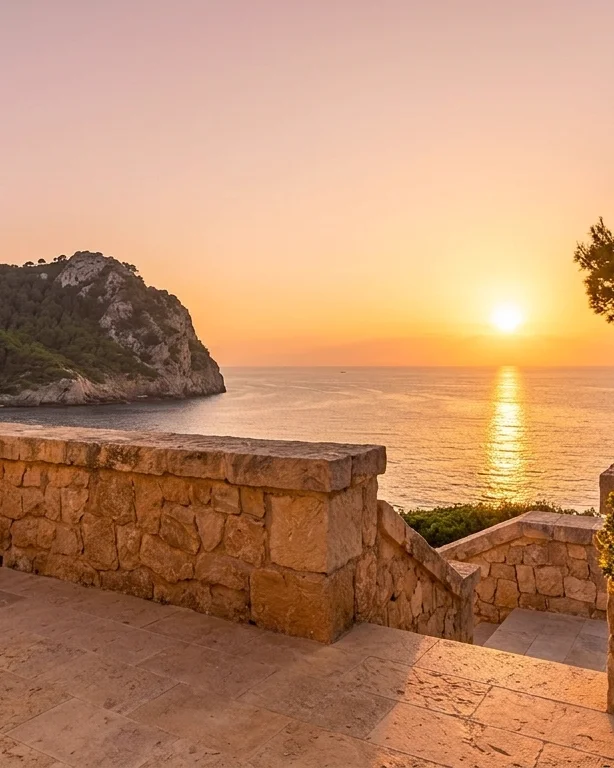
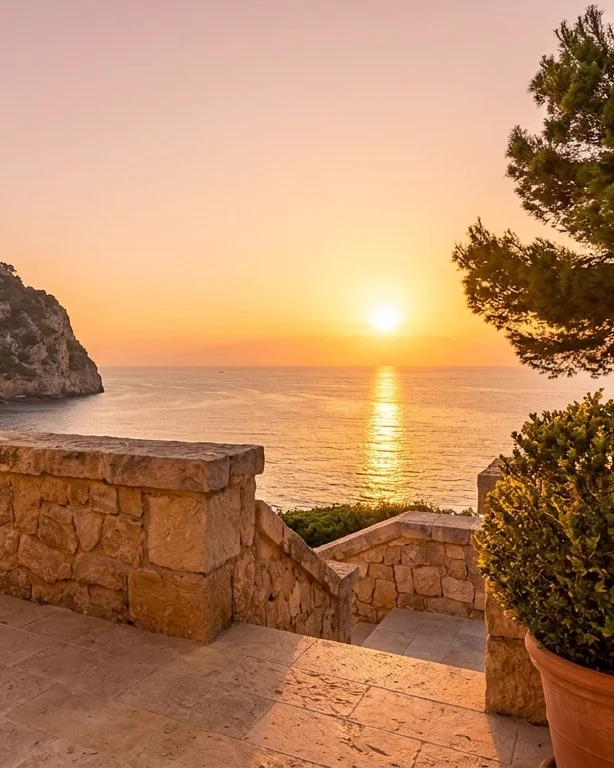
Link the web design bento hero card to the villa demo with its arrival doorway as the background, shift the Stay menu still right to show the pine, and let the frames script use native portrait stills when they exist

diff --git a/web-design.html b/web-design.html
@@ -1762,9 +1762,13 @@
 
     /* hero */
     .wd-bento-hero { padding: 40px; justify-content: flex-end; background: linear-gradient(135deg, #0b2a5c 0%, #1652c4 55%, #0a63d8 100%); isolation: isolate; -webkit-mask-image: -webkit-radial-gradient(white, black); mask-image: radial-gradient(white, black); }
-    .wd-bento-hero-img { position: absolute !important; inset: -2px; z-index: 0 !important; background: url('https://cdn.21st.dev/assets/mirror/63/633a5f888495309f7752ee698cee304063cc16f4311ffa059d903266dc101e40.jpg') center/cover; opacity: .6; transition: transform .7s var(--bento-ease); }
+    .wd-bento-hero-img { position: absolute !important; inset: -2px; z-index: 0 !important; background: url('brand_assets/demo-villa/photos/arrival-card.webp') center/cover; transition: transform .7s var(--bento-ease); }
     .wd-bento-hero:hover .wd-bento-hero-img { transform: scale(1.05); }
-    .wd-bento-hero-tint { position: absolute !important; inset: -2px; z-index: 0 !important; background: linear-gradient(160deg, #3d7bff, #00a3c4); mix-blend-mode: multiply; opacity: .4; }
+    a.wd-bento-hero { text-decoration: none; outline: none; }
+    /* the card's mask clips anything outside it, so the focus ring sits on the inside */
+    .wd-bento-hero:focus-visible::after { content: ''; position: absolute; inset: 0; z-index: 2; border-radius: inherit; box-shadow: inset 0 0 0 3px var(--cyan); pointer-events: none; }
+    .wd-bento-hero:focus-visible .wd-bento-hero-img { transform: scale(1.05); }
+    .wd-bento-hero:active { transform: translateY(-1px) scale(.98) translateZ(0); }
     .wd-bento-hero-shade { position: absolute !important; inset: -2px; z-index: 0 !important; background: linear-gradient(to top, rgba(0,0,0,.6), transparent 70%); }
     .wd-bento-pill { display: inline-flex; align-items: center; gap: 8px; align-self: flex-start; background: rgba(255,255,255,.2); backdrop-filter: blur(6px); border-radius: 999px; padding: 6px 16px; font: 500 14px/1.4 'Inter', sans-serif; }
     .wd-bento-live { width: 8px; height: 8px; border-radius: 50%; background: #4ade80; animation: wdBentoPulse 2s ease-in-out infinite; }
@@ -2629,16 +2633,15 @@
   <div style="max-width:1200px;margin:0 auto;">
     <div class="wd-bento-grid">
 
-      <div class="wd-bento-card wd-bento-hero">
+      <a href="web-design-demo.html" class="wd-bento-card wd-bento-hero" aria-label="Explore Beyond Boundaries: open the villa website demo">
         <div class="wd-bento-hero-img" aria-hidden="true"></div>
-        <div class="wd-bento-hero-tint" aria-hidden="true"></div>
         <div class="wd-bento-hero-shade" aria-hidden="true"></div>
         <div>
           <span class="wd-bento-pill"><span class="wd-bento-live" aria-hidden="true"></span>Live Adventures</span>
           <h3>Explore Beyond<br>Boundaries</h3>
           <p>Discover curated trails that challenge your limits and reconnect you with nature's raw beauty.</p>
         </div>
-      </div>
+      </a>
 
       <div class="wd-bento-card wd-bento-s1">
         <div class="wd-bento-orb" style="right:-32px;top:-32px;width:128px;height:128px;background:rgba(255,255,255,.2);" aria-hidden="true"></div>
